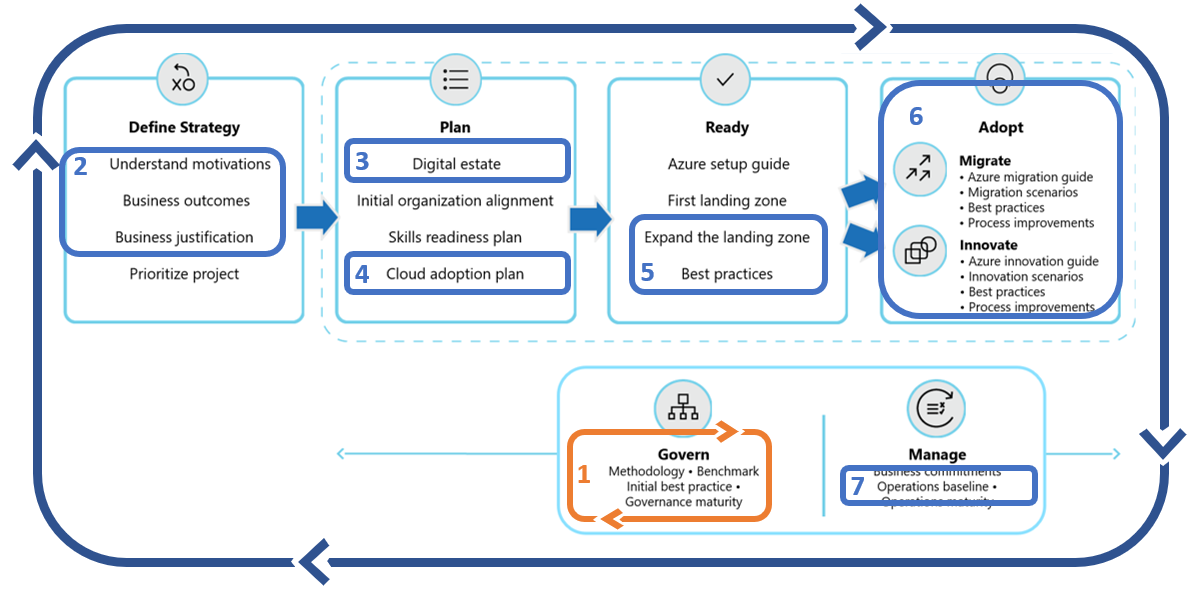
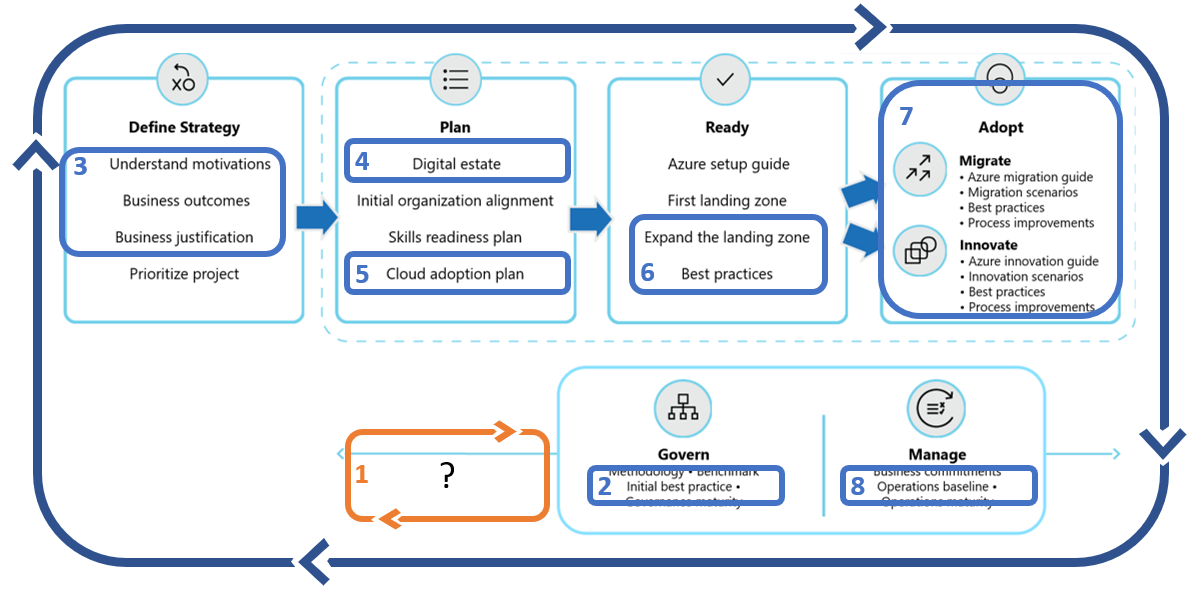
Security & share principles

diff --git a/docs/getting-started/security-roadmap.md b/docs/getting-started/security-roadmap.md
@@ -1,203 +1,167 @@
 ---
-title: "Security roadmap"
-description: Apply the Cloud Adoption Framework guidance to your security scenario.
+title: "Implement security requirements across the enterprise"
+description: Implement security requirements across the enterprise
 author: JanetCThomas
 ms.author: janet
-ms.date: 02/19/2020
+ms.date: 04/04/2020
 ms.topic: conceptual
 ms.service: cloud-adoption-framework
 ms.subservice: overview
 ---
 
-# Getting started: Address security
+<!-- cSpell:ignore architected -->
 
-Clearly define the goal of the article and what the reader will accomplish. This article provides a checklist and recommended steps for…
+# Getting started: Implementing security requirements across the enterprise
+
+How do we consistently secure our cloud environment? This quickstart guide can help ensure the proper security requirements have been applied across the enterprise to minimize risk of breach and accelerate recover when breach occurs. The steps in this guide will help ensure that your cloud security requirements are consistently applied to all environments and landing zones across the enterprise. This article maps various supporting functions into one getting started guide to help ensure that security is a team sport.
 
 ## Get started
 
-Use the checklists to… Follow the steps to… This process utilizes the sections of the Cloud Adoption Framework that are highlighted in the following illustration.
+Consistent security is managed through the application of a security baseline. This checklist starts with the consistent application of security requirements. The subsequent steps in this checklist will help get the entire enterprise started on a shared journey towards more security adoption of the cloud.
 
-Understand how to apply the Cloud Adoption Framework guidance to your cloud security in Azure.
+![Getting Started with enterprise security](../_images/getting-started/security-getting-started-map.png)
 
-Modify the baseline journey graphic to highlighting the parts of CAF that are used in this scenario.  
+## Step 1. Establish security requirements and practices
 
-![Getting Started with title](../_images/getting-started/caf-baseline-journey.png)
-<!---Required:
-Modify the baseline graphic to show the parts of the cloud adoption framework that are used in this scenario.
---->
+Security in the cloud starts with sound practices and requirements. In the first step, it is important to define actionable requirements and consistent processes to guide security decisions, which align to cloud provider capabilities and realistic risk profiles.
 
-## Define strategy
-<!--- remove this section if it doesn't apply to this scenario. --->
-Use the following checklist to evaluate... Use the steps to...
+### Involved teams
 
-- **Question one:** Are all stakeholders aligned on the motivations and expected business outcomes?
-- **Question two:** Are all stakeholders aligned on the overall business justification?
-- **Question n** blah?
+- Accountable team: [Cloud Security Team](../organize/cloud-security.md)
+- Responsible/Supporting teams: [Cloud Strategy Team](../organize/cloud-strategy.md), [Cloud Platform Team](../organize/cloud-platform.md), [Cloud Adoption Team](../organize/cloud-adoption.md), and [Cloud center of excellence](../organize/cloud-center-of-excellence.md)/[Central IT](../organize/central-it.md)
 
-### Step 1: start with a verb – e.g. do blah
+### Deliverables
 
-Brief explanation of what this step accomplishes.
+- Implementation of well-managed security requirements aligned to the tools, capabilities, and risk profile of the specific cloud provider.
 
-- Example - [Motivations](../strategy/motivations.md): Explanation of how this article will help them accomplish what is a necessary part of this step.
-- Example - [Business Outcomes](../strategy/business-outcomes/index.md): Explanation of how this article will help them accomplish what is a necessary part of this step.
+### Guidance to support deliverable completion
 
-**Deliverable:**
+> [!WARNING]
+> TODO - Create required guidance to determine the right processes, security toolchain, and portfolio-wide security requirements.
 
-- what is produced during this step and links to tools, templates that can be utilized.
+## Steps to scale security protections and a secure mindset across the organization
 
-**Involved teams:**
+Various decisions throughout the cloud adoption lifecycle can have a direct impact on security. The following steps help outline the partnerships and supporting efforts required to deliver consistent security across the IT portfolio.
 
-- Example - Accountable team: [Cloud Strategy Team](../organize/cloud-strategy.md)
-- Example - Responsible or supporting teams: [Cloud Adoption Team](../organize/cloud-adoption.md) and [Cloud center of excellence](../organize/cloud-center-of-excellence.md)/[Central IT](../organize/central-it.md)
+## Step 2. Apply a security baseline
 
-## Plan
-<!--- remove this section if it doesn't apply to this scenario. --->
-Use the following checklist to evaluate... Use the steps to...
+Consistent application of security requirements come from sound governance disciplines and automated solutions. Once the security baseline is defined by the cloud security team, those requirements can be audited and/or applied to all cloud environments.
 
-- **Question one:** Does the team have a skills plan in place?
-- **Question two:** blah?
-- **Question three:** blah?
-- ...
+### Involved teams
 
-### Step 2: start with a verb – e.g. do blah
+- Accountable team: [Cloud Governance Team](../organize/cloud-governance.md)
+- Responsible/Supporting teams: [Cloud Strategy Team](../organize/cloud-strategy.md), [Cloud Security Team](../organize/cloud-security.md), and [Cloud center of excellence](../organize/cloud-center-of-excellence.md)/[Central IT](../organize/central-it.md)
 
-Brief explanation of what this step accomplishes. e.g. set up a security team.
+### Deliverables
 
-- Example - [Build a skills readiness plan](../plan/adapt-roles-skills-processes.md): Do a quick evaluation of the required skills and the existing skills to better understand what skilling requirements need to be addressed.
+- Ensure proper application of the security baseline for all impacted systems.
+- Document security policies, processes, and design guidance in the [Security baseline governance template](../govern/security-baseline/template.md).
 
-**Deliverable:**
+### Guidance to support deliverable completion
 
-- what is produced during this step and links to tools, templates that can be utilized.
-- Example - Add skills readiness plan to the [Strategy and Planning Template](https://archcenter.blob.core.windows.net/cdn/fusion/readiness/Microsoft-Cloud-Adoption-Framework-Strategy-and-Plan-Template.docx)
+- Ensure all workloads and resources follow **[proper naming and tagging conventions](../ready/azure-best-practices/naming-and-tagging.md)** and [enforce tagging conventions using Azure policy](/azure/governance/policy/tutorials/govern-tags.md) with a specific emphasis on tags for "Data Sensitivity".
+- If you are new to cloud governance, establish [governance policies, processes, and disciplines](../govern/index.md) using the Govern methodology.
+- If you are new to the security baseline discipline, consider following the [security baseline improvements article](../govern/guides/complex/security-baseline-improvement.md), with a focus on the [implementation](../govern/guides/complex/security-baseline-improvement.md#incremental-improvement-of-the-best-practices) section.
 
-**Involved teams:**
+## Step 3. Define strategy
 
-- Example - Accountable team: [Cloud Adoption Team](../organize/cloud-adoption.md)
-- Example - Responsible or supporting teams: [Cloud Strategy Team](../organize/cloud-strategy.md)
+Strategic decisions have direct impact on security, which ripple throughout the adoption life-cycle and beyond into long-term operations. Strategic clarity will improve security efforts by identifying the potential impact of the strategic direction on your long-term risk profile.
 
-## Ready
-<!--- remove this section if it doesn't apply to this scenario. --->
-Use the following checklist to evaluate... Use the steps to...
+### Involved teams
 
-- **Question one:** blah?
-- **Question two:** blah?
-- **Question three:** blah?
-- ...
+- Accountable team: [Cloud Strategy Team](../organize/cloud-strategy.md)
+- Responsible/Supporting teams: [Cloud Governance Team](../organize/cloud-governance.md), [Cloud Security Team](../organize/cloud-security.md), and [Cloud center of excellence](../organize/cloud-center-of-excellence.md)/[Central IT](../organize/central-it.md)
 
-### Step 3: start with a verb – e.g. do blah
+### Deliverables
 
-Brief explanation of what this step accomplishes.
+- Record motivations, outcomes, and business justification in the [Strategy and Planning Template](https://archcenter.blob.core.windows.net/cdn/fusion/readiness/Microsoft-Cloud-Adoption-Framework-Strategy-and-Plan-Template.docx). Ensure the security baseline provides support, which aligns to the strategic direction of cloud adoption.
 
-- Example - link: Explanation of how this article will help them accomplish what is a necessary part of this step.
-- Example - link: Explanation of how this article will help them accomplish what is a necessary part of this step.
+### Guidance to support deliverable completion
 
-**Deliverable:**
+- Strategy: [Understand motivations](../strategy/motivations.md): Critical business events and some migration motivations tend to be cost sensitive, increasing the importance of cost control for all subsequent efforts. Other forward looking motivations related to innovation or growth through migration may be focused more on top-line revenue. Understanding motivations will help understand how high of a priority cost management should be.
+- Strategy: [Business Outcomes](../strategy/business-outcomes/index.md): Some fiscal outcomes tend to be extremely cost sensitive. When the desired outcomes map to fiscal metrics, it can be wise to invest in the cost management discipline of governance very early.
+- Strategy: [Business Justification](../strategy/cloud-migration-business-case.md): The business justification serves as a high-level view of the overall financial plan for cloud adoption. This can be a good source for initial budgeting efforts.
 
-- what is produced during this step and links to tools, templates that can be utilized.
+## Step 4. Digital estate
 
-**Involved teams:**
+The digital estate (or analysis of the existing IT portfolio) can aid in validating the business justification and provide a refined view of the overall IT portfolio. This perspective and the supporting data can aid in identifying potential security risks and the overall security boundary requirements.
 
-- Example - Accountable team: [Cloud Strategy Team](../organize/cloud-strategy.md)
-- Example - Responsible or supporting teams: [Cloud Adoption Team](../organize/cloud-adoption.md) and [Cloud center of excellence](../organize/cloud-center-of-excellence.md)/[Central IT](../organize/central-it.md)
+### Involved teams
 
-### Step 4: start with a verb – e.g. do blah
+- Accountable team: [Cloud Strategy Team](../organize/cloud-strategy.md)
+- Responsible/Supporting teams: [Cloud Governance Team](../organize/cloud-governance.md), [Cloud Security Team](../organize/cloud-security.md), and [Cloud center of excellence](../organize/cloud-center-of-excellence.md)/[Central IT](../organize/central-it.md)
 
-Brief explanation of what this step accomplishes.
+### Deliverables
 
-- Example - link: Explanation of how this article will help them accomplish what is a necessary part of this step.
-- Example - link: Explanation of how this article will help them accomplish what is a necessary part of this step.
+- Update the [Strategy and Planning Template](https://archcenter.blob.core.windows.net/cdn/fusion/readiness/Microsoft-Cloud-Adoption-Framework-Strategy-and-Plan-Template.docx) to reflect changes triggered by the digital estate analysis.
+- Work with the security team to clearly define data sensitivity and business impact of each workload in the near-term and long-term adoption plan.
 
-**Deliverable:**
+### Guidance to support deliverable completion
 
-- what is produced during this step and links to tools, templates that can be utilized.
+- Plan: [Gather Inventory](../digital-estate/inventory.md): Establish a source of data for analysis of the digital estate prior to adoption.
+- Plan: [Best Practice - Azure Migrate](../plan/contoso-migration-assessment.md): Leverage Azure Migrate to gather inventory
+- Plan: [Incremental Rationalization](../digital-estate/rationalize.md#incremental-rationalization): During incremental rationalization a quantitative analysis will identify cloud candidates for budgeting purposes.
+- Plan: [Align cost models and forecast models](../digital-estate/calculate.md): Leverage Azure Cost Management to align cost and forecast models by [creating budgets](https://docs.microsoft.com/azure/cost-management-billing/costs/tutorial-acm-create-budgets?toc=https://docs.microsoft.com/azure/cloud-adoption-framework/toc.json&bc=https://docs.microsoft.com/azure/cloud-adoption-framework/_bread/toc.json).
 
-**Involved teams:**
+## Step 5. Adoption plan
 
-- Example - Accountable team: [Cloud Adoption Team](../organize/cloud-adoption.md)
-- Example - Responsible or supporting teams: [Cloud center of excellence](../organize/cloud-center-of-excellence.md)/[Central IT](../organize/central-it.md)
+The adoption plan provides clarity on the timeline of activities during adoption. Aligning that plan and digital estate analysis provides a means of planning for future risk profiles and security baseline improvements. Understanding the plan also invites the cloud security team into the development cycles early, to evaluate and plan for any changes to the security baseline.
 
-## Adopt
-<!--- remove this section if it doesn't apply to this scenario. --->
-Use the following checklist to evaluate... Use the steps to...
+### Involved teams
 
-- **Question one**: Is the adoption team prepared to execute the technical migration effort?
-- **Question two:** blah?
-- **Question three:** blah?
-- ...
+- Accountable team: [Cloud Adoption Team](../organize/cloud-adoption.md)
+- Responsible/Supporting teams: [Cloud Strategy Team](../organize/cloud-strategy.md), [Cloud Security Team](../organize/cloud-security.md), [Cloud Governance Team](../organize/cloud-governance.md), and [Cloud center of excellence](../organize/cloud-center-of-excellence.md)/[Central IT](../organize/central-it.md)
 
-### Step 5: start with a verb – e.g. do blah
+### Deliverables
 
-Brief explanation of what this step accomplishes.
+- Complete steps 1-6 of building a [cloud adoption plan](../plan/plan-intro.md#build-your-cloud-adoption-plan).
+- Work with the cloud security team to establish a timeline for security readiness.
 
-- Example - link: Explanation of how this article will help them accomplish what is a necessary part of this step.
-- Example - link: Explanation of how this article will help them accomplish what is a necessary part of this step.
+### Guidance to support deliverable completion
 
-**Deliverable:**
+- Plan: [Build your cloud adoption plan](../plan/plan-intro.md#build-your-cloud-adoption-plan): Steps to build a plan with actionable workload, assets, and timeline details.
 
-- what is produced during this step and links to tools, templates that can be utilized.
+## Step 6. Landing zone best practices
 
-**Involved teams:**
+The Ready methodology of the cloud adoption framework focuses heavily on the development of landing zones to host workloads in the cloud. During landing zone implementation, there are a number of decisions which may impact security and risk profiles. Consult the cloud security team to help review the landing zone for security improvements. Also consult the cloud governance team to understand "security baseline" policies and design guidance which may impact landing zone design.
 
-- Example - Accountable team: [Cloud Strategy Team](../organize/cloud-strategy.md)
-- Example - Responsible or supporting teams: [Cloud Adoption Team](../organize/cloud-adoption.md) and [Cloud center of excellence](../organize/cloud-center-of-excellence.md)/[Central IT](../organize/central-it.md)
+### Involved teams
 
-## Govern
-<!--- remove this section if it doesn't apply to this scenario. --->
-Use the following checklist to evaluate... Use the steps to...
+- Accountable team: [Cloud Adoption Team](../organize/cloud-adoption.md) or [Cloud Platform Team](../organize/cloud-platform.md)
+- Responsible/Supporting teams: [Cloud Security Team](../organize/cloud-security.md), [Cloud Strategy Team](../organize/cloud-strategy.md), [Cloud Governance Team](../organize/cloud-governance.md), and [Cloud center of excellence](../organize/cloud-center-of-excellence.md)/[Central IT](../organize/central-it.md)
 
-- **Example one:** blah?
-- **Example - Governance**: Is the governance team aligned with the approach to governing the cloud environment?
-- ...
+### Deliverables
 
-### Step 6: start with a verb – e.g. do blah
+- Deploy one or more landing zones capable of hosting workloads in the short term adoption plan.
+- Ensure all landing zones meet operations decisions and resource consistency requirements.
 
-Brief explanation of what this step accomplishes.
+### Guidance to support deliverable completion
 
-- Example - link: Explanation of how this article will help them accomplish what is a necessary part of this step.
-- Example - [Governance approach](../govern/index.md): This methodology outlines a process for thinking about corporate policy and processes. Then building the disciplines required to deliver on governance across your cloud enterprise adoption efforts.
-- Example - [Initial governance foundation](../govern/guides/complex/prescriptive-guidance.md): Understand the Identity Baseline, Security Baseline, and Deployment Acceleration that are required to create a governance MVP, which will serve as the foundation for all adoption.
+- Ready: [Improve landing zone operations](../ready/considerations/landing-zone-security.md): Best practices for improving security within a given landing zone.
 
-**Deliverable:**
+## Step 7. Adoption
 
-- what is produced during this step and links to tools, templates that can be utilized.
-- Example: Deploy an initial governance foundation
-- Example: Complete a governance benchmark to plan for future improvements
-- Example: Timeline risks: Improve policies and governance implementation can add 1-4 weeks per discipline
+Long-term security is impacted by the decisions made during migration and innovation efforts. Maintaining consistent alignment early in adoption processes will remove barriers to production release and reduce the effort required to on-board new solutions into security practices.
 
-**Involved teams:**
+### Involved teams
 
-- Example - Accountable team: [Cloud Strategy Team](../organize/cloud-strategy.md)
-- Example - Responsible or supporting teams: [Cloud Adoption Team](../organize/cloud-adoption.md) and [Cloud center of excellence](../organize/cloud-center-of-excellence.md)/[Central IT](../organize/central-it.md)
+- Accountable team: [Cloud Adoption Team](../organize/cloud-adoption.md)
+- Responsible/Supporting teams: [Cloud Strategy Team](../organize/cloud-strategy.md), [Cloud Security Team](../organize/cloud-security.md), [Cloud Governance Team](../organize/cloud-governance.md), and [Cloud center of excellence](../organize/cloud-center-of-excellence.md)/[Central IT](../organize/central-it.md)
 
-Note: Take the governance benchmark assessment to understand the security gaps that need to be addressed.
+### Deliverables
 
-## Manage
-<!--- remove this section if it doesn't apply to this scenario. --->
-Use the following checklist to evaluate... Use the steps to...
+- Test operations readiness of production deployments using security baseline policies.
+- Validate adherence to security baseline design guidance and security requirements.
 
-- **Management**: Is there a plan for ongoing operations?
+### Guidance to support deliverable completion
 
-### Step 7: start with a verb – e.g. do blah
-
-Brief explanation of what this step accomplishes.
-
-- Example - link: Explanation of how this article will help them accomplish what is a necessary part of this step.
-- Example -[Management Baseline](../manage/index.md):
-- Example -[Define business commitments](../manage/considerations/business-alignment.md):
-
-**Deliverable:**
-
-- what is produced during this step and links to tools, templates that can be utilized.
-- Example: Complete the Ops Management Workbook
-
-**Involved teams:**
-
-- Example - Accountable team: [Cloud Strategy Team](../organize/cloud-strategy.md)
-- Example - Responsible or supporting teams: [Cloud Adoption Team](../organize/cloud-adoption.md) and [Cloud center of excellence](../organize/cloud-center-of-excellence.md)/[Central IT](../organize/central-it.md)
+- Migrate: [environmental readiness checklist](../migrate/migration-considerations/prerequisites/planning-checklist.md)
+- Migrate: [pre-promotion checklist](../migrate/migration-considerations/optimize/ready.md)
+- Migrate: [Production release checklist](../migrate/migration-considerations/optimize/promote.md)
 
 ## Value statement
 
-The steps outlined in this getting started guide can help you and your teams… what is unblocked now that you're done…  …realize business value.
+The above steps will help implement the right controls and processes needed to consistently manage security risks across the enterprise and all hosted resources.
 
 ## Next steps
 

diff --git a/docs/getting-started/operating-model-overview.md b/docs/getting-started/operating-model-overview.md
@@ -3,7 +3,7 @@ title: "Overcome cloud adoption blockers"
 description: Use the Cloud Adoption Framework to overcome blockers. These scenarios provide a roadmap through the Cloud Adoption Framework. 
 author: JanetCThomas
 ms.author: janet
-ms.date: 03/03/2020
+ms.date: 04/04/2020
 ms.topic: overview
 ms.service: cloud-adoption-framework
 ms.subservice: overview
@@ -16,7 +16,13 @@ These common scenarios provide a roadmap through the Microsoft Cloud Adoption Fr
 |                                                                                     |                                                                                                                                |
 |-------------------------------------------------------------------------------------|--------------------------------------------------------------------------------------------------------------------------------|
 | [How do we manage costs?](manage-costs.md)                                          | Start optimizing enterprise costs and manage cost across the environment.                                                                           |
-| [How do we consistently secure our cloud environment?](security-roadmap.md)             | This quickstart guide can help ensure a proper security baseline has been applied across the enterprise to minimize risk of compromise.                                       |
+| [How do we consistently secure our cloud environment?](security-roadmap.md)             | This quickstart guide can help ensure the proper security requirements have been applied across the enterprise to minimize risk of breach and accelerate recover when breach occurs.                                       |
 | [How do we apply the right controls to improve reliability?](reliability.md)                   | This quickstart guide helps minimize disruptions related to inconsistencies in configuration, resource organization, security baselines, or resource protection policies. |
 | [How do we build operational excellence?](operational-excellence.md)                   | This quickstart guide starts the process of building monitoring, resource automation, and resource management across the enterprise. |
 | [How do we align our organization?](org-alignment.md)                               | This quickstart guide can help you establish an appropriately staffed organizational structure.                               |
+
+## Shared architecture principles
+
+The core principles of a well-managed operating model applies the shared principles of [Azure Advisor](/azure/advisor/advisor-overview), [Azure Architecture Framework](/azure/architecture/framework/), and solutions in the [Azure Architecture Center](/azure/architecture/). The above "getting started" articles will help supporting teams begin to scale these principles across your cloud platform and throughout your portfolio of workloads.
+
+![Shared architecture principles](../../_images/ready/shared-principles.png)

diff --git a/docs/getting-started/manage-costs.md b/docs/getting-started/manage-costs.md
@@ -3,7 +3,7 @@ title: "Cost optimization across an enterprise"
 description: Learn the basics of managing costs associated with cloud adoption.
 author: JanetCThomas
 ms.author: janet
-ms.date: 03/05/2020
+ms.date: 04/04/2020
 ms.topic: guide
 ms.service: cloud-adoption-framework
 ms.subservice: overview
@@ -37,14 +37,13 @@ The cloud governance team is well positioned and equipped to evaluate and act on
 
 This deliverable of this step is the result of a few recurring tasks:
 
+- Ensure strategic alignment with the cloud strategy team (which includes workload stakeholders across the portfolio)
 - Optimize cost across the environment
     - Stop (or auto-stop) unused VMs
+    - Delete / De-allocate stopped VMs
     - Ensure proper resource sizing
-    - Align actual spend to budget expectations.
-- Validate changes before committing
-    - Ensure strategic alignment & change processes with the cloud strategy team (include workload stakeholders)
-    - Validate alignment with technical lead using the Azure Architecture Review and Azure Architecture framework to guide a review.
-    - If there is no technical lead for a workload, use the Azure Architecture Review and Azure Architecture framework to validate cost optimization changes that may impact workload architecture.
+    - Align actual spend to budget expectations
+- Validate any architectural change using the Azure Architecture Review to facilitate a conversation technical owners of the workload(s).
 
 ### Guidance to support deliverable completion
 

diff --git a/docs/getting-started/reliability.md b/docs/getting-started/reliability.md
@@ -3,7 +3,7 @@ title: "Implementing the right controls to improve reliability"
 description: Learn the basics of improving reliability through governance controls and a management baseline.
 author: JanetCThomas
 ms.author: janet
-ms.date: 03/05/2020
+ms.date: 04/04/2020
 ms.topic: guide
 ms.service: cloud-adoption-framework
 ms.subservice: overview
@@ -147,7 +147,7 @@ The Ready methodology of the cloud adoption framework focuses heavily on the dev
 
 ### Guidance to support deliverable completion
 
-- Ready: [Improve landing zone operations](../ready/considerations/landing-zone-operations): Best practices for improving operations within a given landing zone.
+- Ready: [Improve landing zone operations](../ready/considerations/landing-zone-operations.md): Best practices for improving operations within a given landing zone.
 
 ## Step 7. Adoption
 
